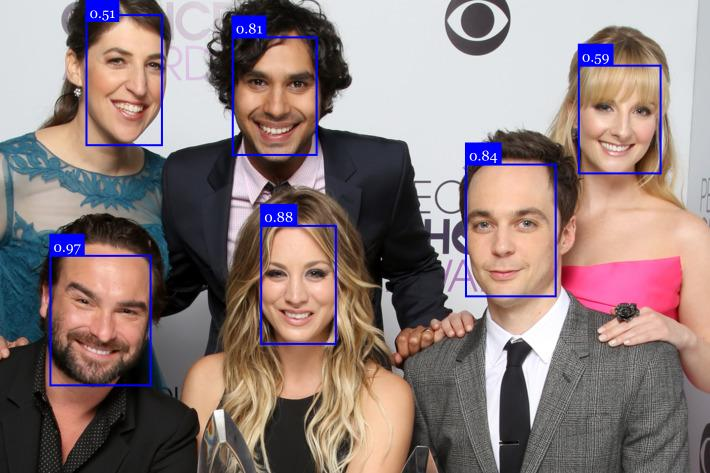
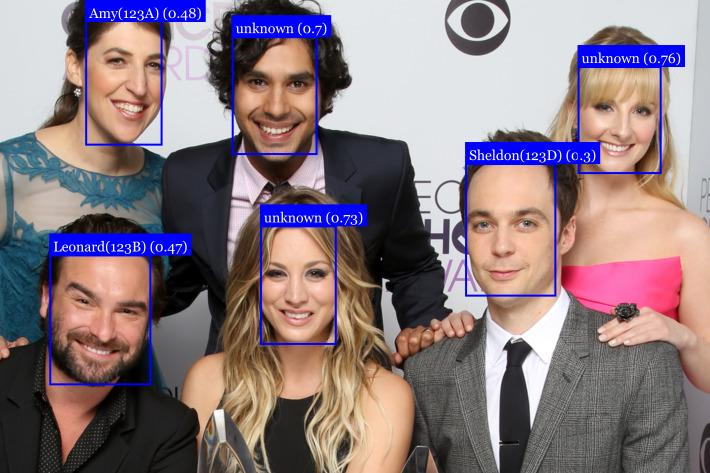
draw box and label for face/upload method

diff --git a/backend/src/services/utils/faceapiService.js b/backend/src/services/utils/faceapiService.js
@@ -1,13 +1,11 @@
 const save = require("./saveFile");
 const path = require("path");
-
 const tf = require("@tensorflow/tfjs-node");
-
 const canvas = require("canvas");
-
 const faceapi = require("@vladmandic/face-api/dist/face-api.node.js");
 const modelPathRoot = "../../faceAPIModel";
-
+const FaceModel = require('../../models/face');
+const baseDir = path.resolve(__dirname, "../../..");
 let optionsSSDMobileNet;
 
 const { Canvas, Image, ImageData } = canvas;
@@ -36,14 +34,13 @@ async function main(file, filename) {
   await faceapi.tf.ready();
 
   console.log(
-    `Version: TensorFlow/JS ${faceapi.tf?.version_core} FaceAPI ${
-      faceapi.version.faceapi
+    `Version: TensorFlow/JS ${faceapi.tf?.version_core} FaceAPI ${faceapi.version.faceapi
     } Backend: ${faceapi.tf?.getBackend()}`
   );
 
   console.log("Loading FaceAPI models");
   const modelPath = path.join(__dirname, modelPathRoot);
-  
+
   await faceapi.nets.ssdMobilenetv1.loadFromDisk(modelPath);
   optionsSSDMobileNet = new faceapi.SsdMobilenetv1Options({
     minConfidence: 0.5,
@@ -53,11 +50,51 @@ async function main(file, filename) {
   const result = await detect(tensor);
   console.log("Detected faces:", result.length);
 
-  const canvasImg = await canvas.loadImage(file);
-  const out = await faceapi.createCanvasFromMedia(canvasImg);
-  faceapi.draw.drawDetections(out, result);
-  save.saveFile(filename, out.toBuffer("image/jpeg"));
-  console.log(`done, saved results to ${filename}`);
+  // ---
+  try {
+    // Get all the face data from mongodb and loop through each of them to read the data
+    let faces = await FaceModel.find();
+
+    for (let i = 0; i < faces.length; i++) {
+      // Change the face data descriptors from Objects to Float32Array type
+      for (let j = 0; j < faces[i].descriptions.length; j++) {
+        faces[i].descriptions[j] = new Float32Array(Object.values(faces[i].descriptions[j]));
+      }
+      // Turn the DB face docs to
+      faces[i] = new faceapi.LabeledFaceDescriptors(faces[i].label, faces[i].descriptions);
+    }
+
+    // Load face matcher to find the matching face
+    const faceMatcher = new faceapi.FaceMatcher(faces, 0.6);
+
+    // Read the image using canvas or other method
+    const img = await canvas.loadImage(file);
+
+    let temp = faceapi.createCanvasFromMedia(img);
+    // Process the image for the model
+    const displaySize = { width: img.width, height: img.height };
+    faceapi.matchDimensions(temp, displaySize);
+
+    // Find matching faces
+    const detections = await faceapi.detectAllFaces(img).withFaceLandmarks().withFaceDescriptors();
+    const resizedDetections = faceapi.resizeResults(detections, displaySize);
+    const queryDrawBoxes = detections.map(res => {
+      const bestMatch = faceMatcher.findBestMatch(res.descriptor)
+      return new faceapi.draw.DrawBox(res.detection.box, { label: bestMatch.toString() })
+    })
+    const outQuery = faceapi.createCanvasFromMedia(img)
+    queryDrawBoxes.forEach(drawBox => drawBox.draw(outQuery))
+    save.saveFile(filename, outQuery.toBuffer('image/jpeg'));
+    // const canvasImg = await canvas.loadImage(file);
+    // const out = await faceapi.createCanvasFromMedia(canvasImg);
+    // faceapi.draw.drawDetections(out, result);
+    // save.saveFile(filename, out.toBuffer("image/jpeg"));
+    // console.log(`done, saved results to ${filename}`);
+
+  } catch (error) {
+    console.log(error);
+  }
+
 
   tensor.dispose();
 

diff --git a/backend/src/services/utils/saveFile.ts b/backend/src/services/utils/saveFile.ts
@@ -1,9 +1,9 @@
 const fs = require("fs");
 const path = require("path");
 
-const baseDir = path.resolve(__dirname, "../../../images/out");
+export function saveFile(fileName : string, buf : Buffer, folder :String = "out") {
 
-export function saveFile(fileName : string, buf : Buffer) {
+  const baseDir = path.resolve(__dirname, `../../../images/${folder}`);
   if (!fs.existsSync(baseDir)) {
     fs.mkdirSync(baseDir);
   }
